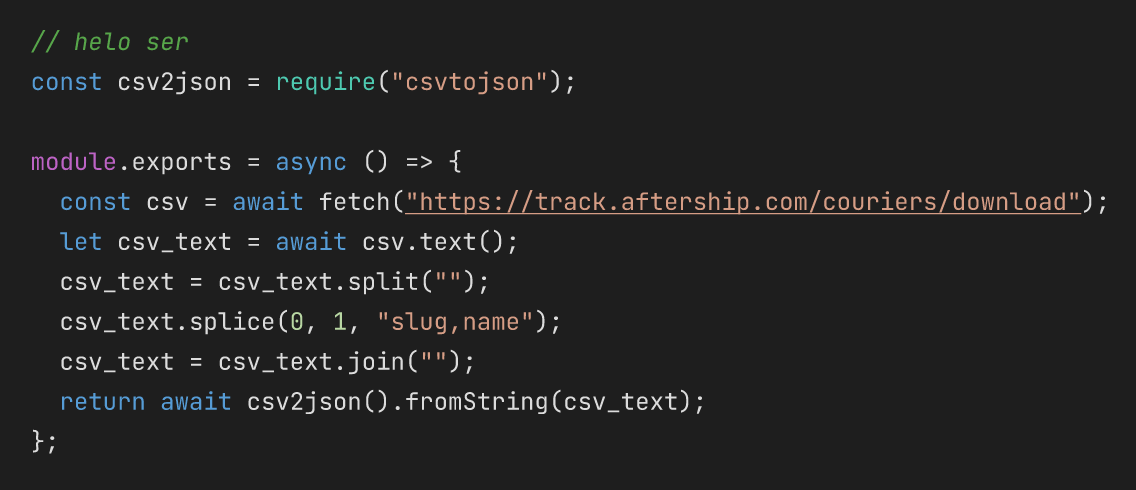
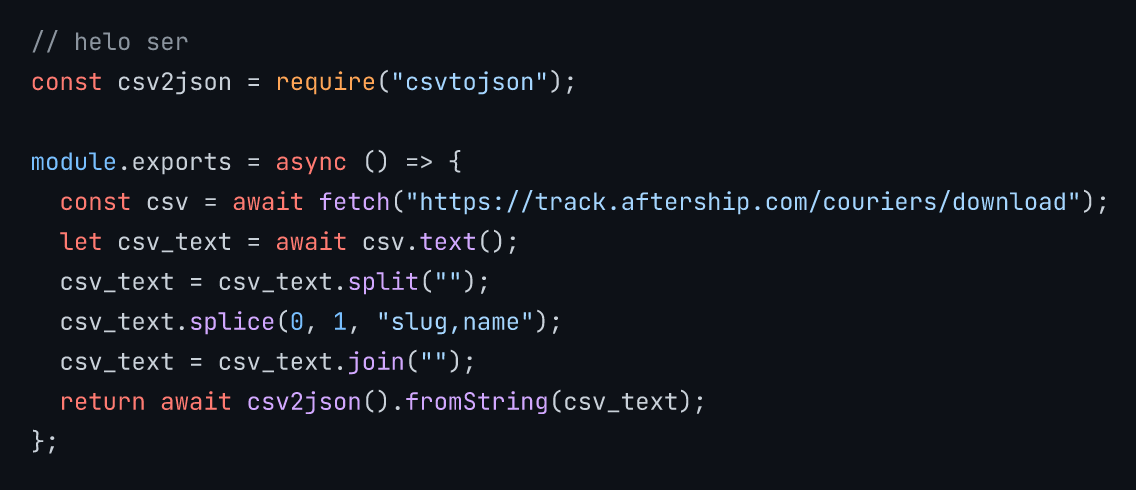
finals

diff --git a/hljs/gh-dark.css b/hljs/gh-dark.css
@@ -1,0 +1,114 @@
+.hljs {
+  color: #c9d1d9;
+  background: #0d1117;
+}
+
+.hljs-doctag,
+.hljs-keyword,
+.hljs-meta .hljs-keyword,
+.hljs-template-tag,
+.hljs-template-variable,
+.hljs-type,
+.hljs-variable.language_ {
+  /* prettylights-syntax-keyword */
+  color: #ff7b72;
+}
+
+.hljs-title,
+.hljs-title.class_,
+.hljs-title.class_.inherited__,
+.hljs-title.function_ {
+  /* prettylights-syntax-entity */
+  color: #d2a8ff;
+}
+
+.hljs-attr,
+.hljs-attribute,
+.hljs-literal,
+.hljs-meta,
+.hljs-number,
+.hljs-operator,
+.hljs-variable,
+.hljs-selector-attr,
+.hljs-selector-class,
+.hljs-selector-id {
+  /* prettylights-syntax-constant */
+  color: #79c0ff;
+}
+
+.hljs-regexp,
+.hljs-string,
+.hljs-meta .hljs-string {
+  /* prettylights-syntax-string */
+  color: #a5d6ff;
+}
+
+.hljs-built_in,
+.hljs-symbol {
+  /* prettylights-syntax-variable */
+  color: #ffa657;
+}
+
+.hljs-comment,
+.hljs-code,
+.hljs-formula {
+  /* prettylights-syntax-comment */
+  color: #8b949e;
+}
+
+.hljs-name,
+.hljs-quote,
+.hljs-selector-tag,
+.hljs-selector-pseudo {
+  /* prettylights-syntax-entity-tag */
+  color: #7ee787;
+}
+
+.hljs-subst {
+  /* prettylights-syntax-storage-modifier-import */
+  color: #c9d1d9;
+}
+
+.hljs-section {
+  /* prettylights-syntax-markup-heading */
+  color: #1f6feb;
+  font-weight: bold;
+}
+
+.hljs-bullet {
+  /* prettylights-syntax-markup-list */
+  color: #f2cc60;
+}
+
+.hljs-emphasis {
+  /* prettylights-syntax-markup-italic */
+  color: #c9d1d9;
+  font-style: italic;
+}
+
+.hljs-strong {
+  /* prettylights-syntax-markup-bold */
+  color: #c9d1d9;
+  font-weight: bold;
+}
+
+.hljs-addition {
+  /* prettylights-syntax-markup-inserted */
+  color: #aff5b4;
+  background-color: #033a16;
+}
+
+.hljs-deletion {
+  /* prettylights-syntax-markup-deleted */
+  color: #ffdcd7;
+  background-color: #67060c;
+}
+
+.hljs-char.escape_,
+.hljs-link,
+.hljs-params,
+.hljs-property,
+.hljs-punctuation,
+.hljs-tag {
+  /* purposely ignored */
+}

diff --git a/hljs/engine.ts b/hljs/engine.ts
@@ -12,8 +12,8 @@ for (const { name } of Deno.readDirSync(FONT_DIR)) {
 }
 console.log(`Loaded ${fonts.length} fonts.`);
 
-const html = Deno.readTextFileSync("hljs/indexy.html");
-const cssString = Deno.readTextFileSync("hljs/proper.css");
+const html = Deno.readTextFileSync("hljs/test.html");
+const cssString = Deno.readTextFileSync("hljs/gh-dark.css");
 
 console.time("Render");
 const svg = await render(html, { css: cssString });

diff --git a/hljs/helpers.ts b/hljs/helpers.ts
@@ -42,8 +42,8 @@ export const FONT_SIZE_PROPS: Record<
   },
 };
 
-const htmlString = Deno.readTextFileSync("hljs/indexy.html");
-const cssString = Deno.readTextFileSync("hljs/proper.css");
+const htmlString = Deno.readTextFileSync("hljs/test.html");
+const cssString = Deno.readTextFileSync("hljs/gh-dark.css");
 getLineTokens(htmlString, getColors(cssString));
 
 export function getColors(cssString: string) {
